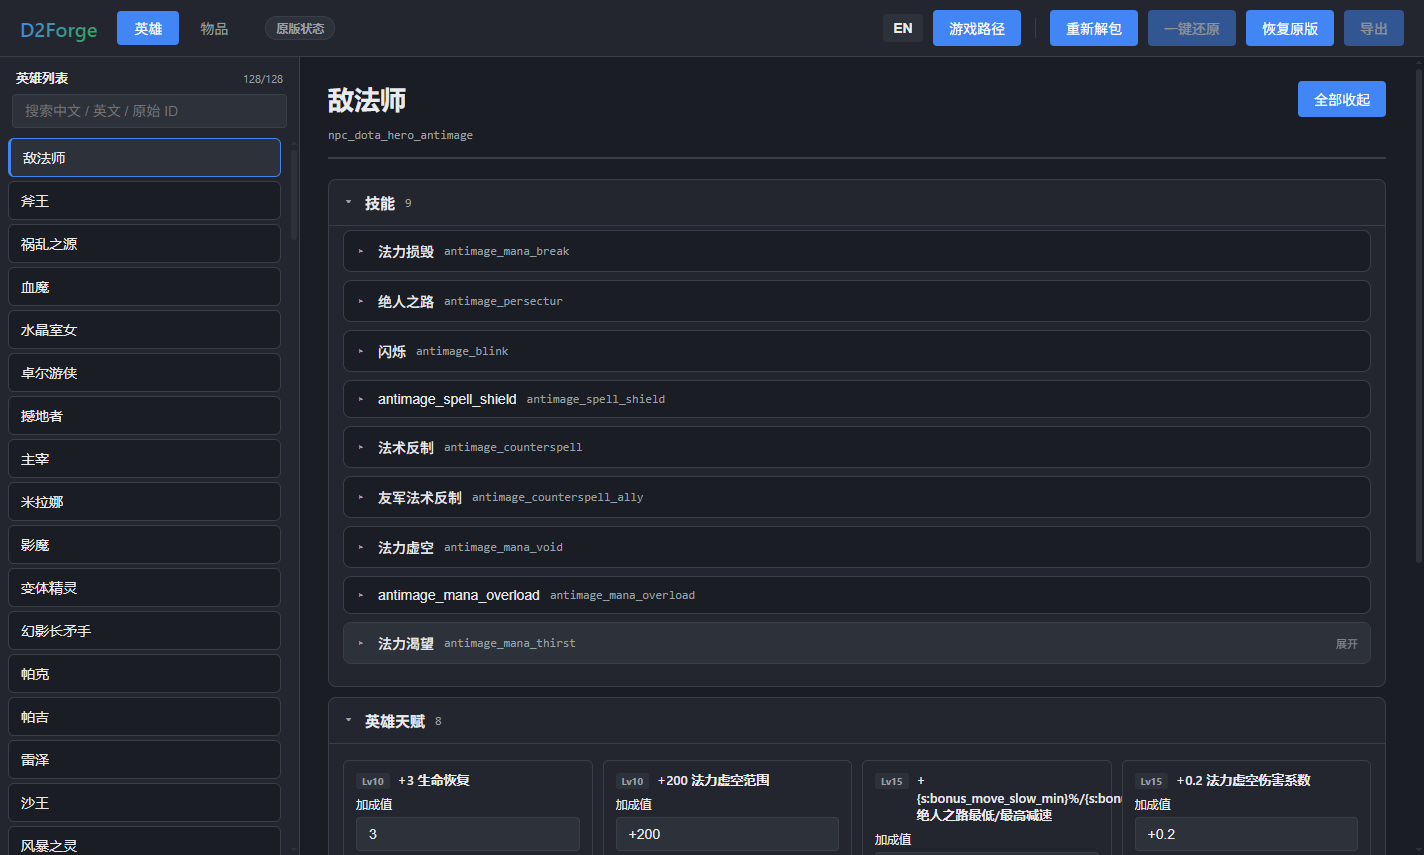
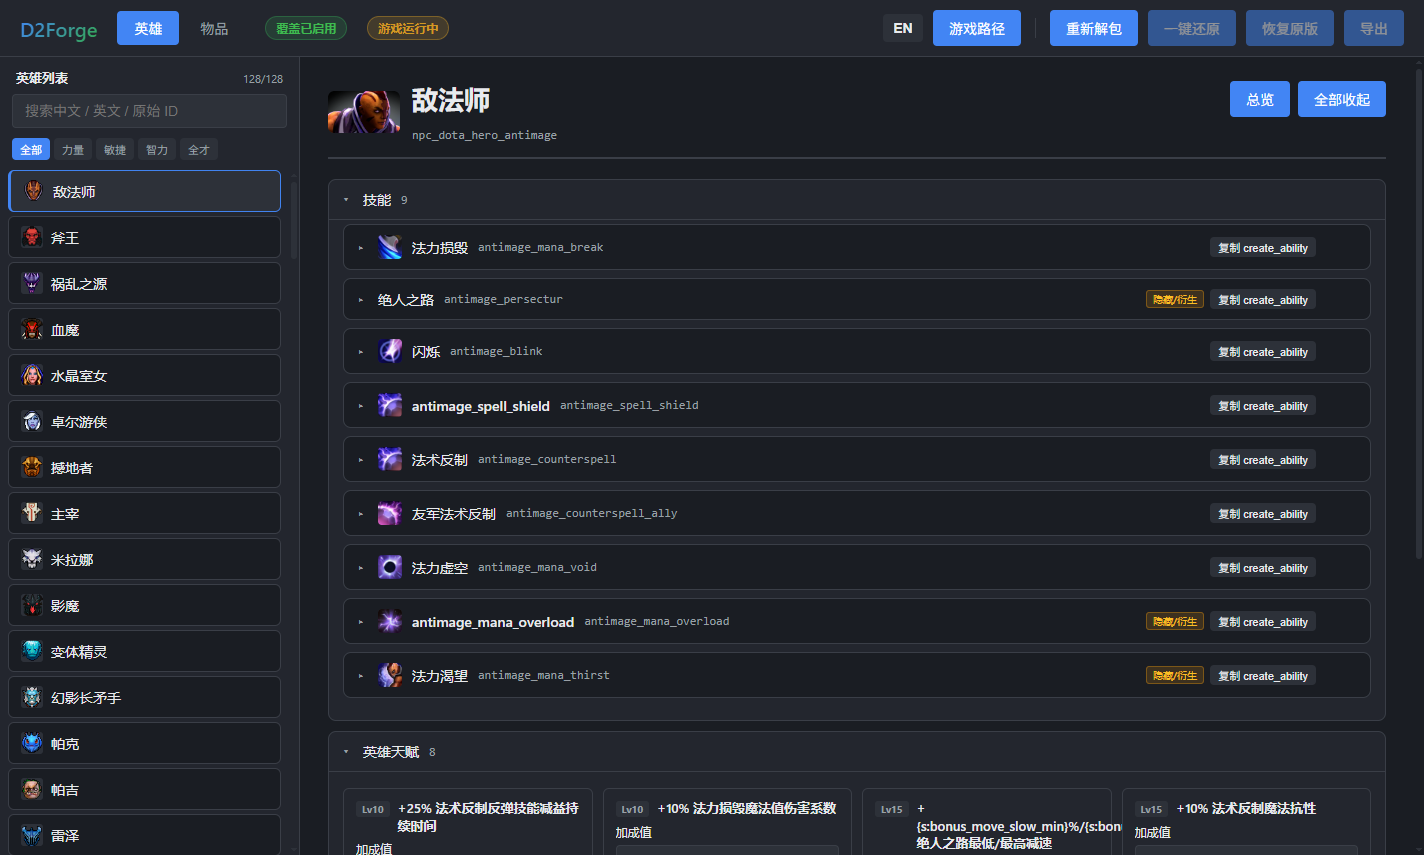
docs: rewrite README and update screenshots for v1.1.0

diff --git a/README.md b/README.md
@@ -2,290 +2,138 @@
 
 **一个现代化的 Dota 2 离线模式数值编辑器。** 直接读写游戏自身的 VPK 数据包，修改英雄属性、技能数值、天赋加成与物品属性，并在游戏更新后保留你的改动。
 
-A modern desktop editor for Dota 2's offline-mode numbers — hero stats, ability values, talent bonuses, and item properties. It reads the game's own VPK archives, writes back only what you changed, and survives game patches. Built with Electron + React.
+A modern desktop editor for Dota 2's offline-mode numbers — hero stats, ability values, talent bonuses, and item properties. It reads the game's own VPK archives, extracts icons locally, writes back only what you changed, and survives game patches. Built with Electron + React.
 
-![英雄列表](docs/screenshots/01-hero-list.png)
+![英雄总览与属性分组](docs/screenshots/01-hero-list.png)
 
-**[下载最新版](https://github.com/SkylineLch/D2Forge/releases/latest)** · [从源码运行](#从源码运行) · [使用流程](#使用流程)
-
----
-
-## 目录
-
-- [为什么做这个](#为什么做这个)
-- [功能](#功能)
-- [界面](#界面)
-- [环境要求](#环境要求)
-- [下载与安装](#下载与安装)
-- [从源码运行](#从源码运行)
-- [使用流程](#使用流程)
-- [工作原理](#工作原理)
-- [游戏更新后怎么办](#游戏更新后怎么办)
-- [项目结构](#项目结构)
-- [开发与验证](#开发与验证)
-- [常见问题](#常见问题)
-- [范围与限制](#范围与限制)
-- [免责声明](#免责声明)
-- [Credits](#credits)
+**[下载最新版 v1.1.0](https://github.com/SkylineLch/D2Forge/releases/latest)** · [核心特性](#核心特性) · [界面预览](#界面预览) · [下载与安装](#下载与安装) · [使用流程](#使用流程) · [工作原理](#工作原理)
 
 ---
 
 ## 为什么做这个
 
-Dota 2 的玩法数据全部打包在 `game/dota/pak01_dir.vpk` 及其分卷里 —— 一张压缩过的、带索引的二进制归档。想改一个技能的伤害数值，传统做法是：解包整个归档（数 GB）、手动翻 `scripts/npc/*.txt` 找那个字段、改完再重新打包、最后想办法让游戏优先加载你的包。
+Dota 2 的玩法数据全部打包在 `game/dota/pak01_dir.vpk` 及其分卷里。想在单机人机（例如搭配 `bots/fretbots`）里调高某个技能伤害或修改装备数值，传统做法是手动解包数 GB 归档、翻找 `scripts/npc/*.txt`、再重新打包并注入加载路径。
 
-D2Forge 把这套流程收进一个图形界面：
+D2Forge 把整套流程收进一个直观的桌面界面：
 
-- 不用解包。应用读取 VPK 索引后按需取文件，只把你**实际改动**的那几个文件重新打包进一个几百 KB 的覆盖包。
-- 不用翻文件。改成「英雄 → 技能 → 数值」的层级浏览，带中英混合搜索。
-- 不用怕更新。游戏打补丁后重新索引一次，还能对上的改动继续生效，对不上的会明确报告而不是静默写坏。
+- **无需手动解包**：按需索引 VPK，仅把你**实际改动**的文件重新打包进几百 KB 的覆盖包 `game/0test/pak01_dir.vpk`。
+- **所见即所得**：内置图标提取缓存、按游戏原生逻辑分组、技能官方描述对照与中英混合搜索。
+- **不惧版本更新**：游戏更新后点一次「重新解包」，未变动的历史修改自动延续，冲突项明确报告。
 
 范围限定：**只改数值。** 不涉及模型、贴图、动画、音效、技能逻辑与 AI 行为。
 
-## 功能
+---
 
-**结构化浏览与图标墙**
-- 英雄按 **力量 / 敏捷 / 智力 / 全才** 四大属性分组；物品读取游戏官方 `shops.txt` 与 `neutral_items.txt`，分为 **基础 / 高级 / 中立（含 T1–T4 级标）/ 附魔 / 其他（已移除与配方）**。
-- 自动从游戏 VPK 增量提取英雄、物品、技能图标并本地缓存；未选中项目时展示分组图标墙，点击即编，同时保留左侧极速搜索列表。
-- 英雄 → 技能 / 天赋 / 属性三条主线，物品 → 属性 / 数值参数。
-- 选中英雄后列表位置保持不变，不会跳回顶部。
+## 核心特性
 
-**技能描述与参数分层**
-- 展开技能或物品时，顶部直接展示游戏官方描述、神杖与魔晶说明，并高亮 `%变量名%` 方便对照。
-- 自动将「游戏内可见核心词条」与「内部隐藏参数（`raw`）」分层，内部参数收进独立折叠区并保留原始英文字段名。
+### 1. 游戏原生逻辑分组 + 图标墙总览
+- **英雄四属性分组**：自动读取 `AttributePrimary`，按 **力量 / 敏捷 / 智力 / 全才** 分区展示。
+- **物品商店与中立池分组**：直接解析游戏自带的 `scripts/shops.txt` 与 `scripts/npc/neutral_items.txt`，拆分为 **基础物品 / 升级物品 / 中立物品（带 `T1`–`T4` 级标）/ 中立附魔 / 其他（已移除与配方）**。
+- **总览图标墙 + 极速搜索双模式**：未选中项目（或点击右上角「总览」）时展示直观的图标网格；左侧保留带图标的搜索列表，支持中文、英文与原始 ID 混合检索（如 `幻影`、`core`、`npc_dota_hero_axe`）。
+- **本地图标自动缓存**：首次打开或「重新解包」时，后台调用内置 `Source2Viewer-CLI` 增量导出英雄、物品与技能图标至 `%APPDATA%/D2Forge/icons/`，游戏更新后仅同步变更贴图。
 
-**一键复制游戏内指令**
-- 物品页一键复制 `-item <id>`，技能栏一键复制 `create_ability <id>`（对 `HIDDEN` / `NOT_LEARNABLE` 衍生技能标注提示）。
-- 顶部工具栏一键复制 `fretbots脚本`（`sv_cheats 1; script_reload_code bots/fretbots`）。
+### 2. 技能 / 物品描述与参数分层
+- **官方描述内嵌**：展开技能或物品时，顶部直接展示游戏官方描述、**神杖**与**魔晶**说明，并将 `%变量名%` 高亮显示，方便与下方字段一一对照。
+- **核心词条 vs 内部参数分层**：自动区分「游戏内可见词条」与「引擎内部/隐藏参数（`raw`）」，内部参数默认收进独立折叠区（有修改时自动展开），并在字段下方保留原始英文 key。
+- **天赋树独立编辑**：按 Lv10 / Lv15 / Lv20 / Lv25 分档列出英雄天赋，自动剔除神杖/魔晶标记。
 
-**混合搜索**
-- 一个搜索框同时匹配中文名、英文名、内部原始名：`幻影`、`anti`、`npc_dota_hero_axe` 都能命中。
+### 3. 游戏内指令一键复制
+- **顶部工具栏 `fretbots脚本`**：一键复制 `sv_cheats 1; script_reload_code bots/fretbots`，开局即用。
+- **物品详情页**：一键复制 `-item <id>`。
+- **英雄技能栏**：一键复制 `create_ability <id>`，并对标记为 `HIDDEN` / `NOT_LEARNABLE` 的衍生子技能标注 `隐藏/衍生` 风险提示。
 
-**天赋树编辑**
-- 按 Lv10 / Lv15 / Lv20 / Lv25 分档列出该英雄的 8–10 个天赋，直接改加成数值。
-- 自动剔除神杖 / 魔晶标记（`special_bonus_scepter` / `special_bonus_shard`），它们不是天赋。
+### 4. 完整中英双语与高覆盖汉化
+- 同时索引 VPK 内的 `abilities_schinese.txt`、`items_schinese.txt` 与 `dota_schinese.txt`，支持大小写无关查找及新版 `:n` 词条后缀。
+- 现役商店物品、中立物品与英雄中文覆盖率达 **100%**；所有改动字段高亮并常驻显示原始默认值。
 
-**改动可见**
-- 每个被改动的字段都高亮，并在旁边常驻显示原始默认值。
-- 工具栏的「导出」按钮常驻显示待写入的改动条数。
-
-**中英双语**
-- 界面可切换；补全了 `items_schinese.txt`、大小写无关索引与新版 `:n` 词条后缀，现役物品与英雄中文覆盖率达 100%。
-
-**三级可逆**
+### 5. 三级可逆与安全防护
 | 操作 | 作用范围 | 典型场景 |
 |---|---|---|
-| 单个字段重置换 | 一个数值 | 改错了某个值 |
+| **单个还原** | 还原单个字段 | 改错了某个数值 |
 | **一键还原** | 清空所有待写入改动 | 本轮试完，重新开始 |
-| **恢复原版** | 卸载覆盖包 + 逐字节复原 `gameinfo.gi` | 切回联网原版打天梯 |
+| **恢复原版** | 卸载 `0test` 覆盖包 + 逐字节复原 `gameinfo.gi` | 切回纯净联网环境打天梯 |
 
-后两个就是你在「改过的离线版」和「纯净联网版」之间来回切换的开关。
+---
 
-**游戏更新不丢改动**
-- 重新索引 VPK 后，自动比对你的历史改动：底层数值没变的继续生效，变了的列出来并附上游戏现值。
+## 界面预览
 
-## 界面
-
-选英雄后，技能与天赋排在属性之前，每个板块可单独展开：
+选定英雄后展示图标、技能列表（含技能图标与 `create_ability` 一键复制）、天赋树与属性分组：
 
 ![英雄面板](docs/screenshots/02-hero-panel.png)
 
-展开技能后逐个数值编辑，改过的字段高亮并显示原值：
+展开技能后显示字段、原始英文 key 与派生标签：
 
 ![技能数值](docs/screenshots/03-ability-values.png)
 
-天赋按等级分档，直接改加成：
-
-![天赋](docs/screenshots/04-talents.png)
-
-物品面板同构：
+物品页展示官方描述（高亮 `%变量%`）、`-item` 一键复制与分层数值：
 
 ![物品](docs/screenshots/05-items.png)
 
-## 环境要求
-
-- **Windows 10 / 11**（当前只支持 Windows —— 覆盖机制依赖 `gameinfo.gi` 的注入路径与 CRC32 补偿，逻辑本身跨平台，但没有在 macOS / Linux 上验证过）
-- **已安装 Dota 2**（Steam 版）
-- **Node.js 18+** —— 仅从源码运行时需要；用打包好的 exe 不需要
+---
 
 ## 下载与安装
 
-**[➜ 下载最新版](https://github.com/SkylineLch/D2Forge/releases/latest)**
+**[➜ 前往 Releases 下载最新版 v1.1.0](https://github.com/SkylineLch/D2Forge/releases/latest)**
 
 | 文件 | 说明 |
 |---|---|
-| `D2Forge Setup 1.1.0.exe` | **安装版**（NSIS）—— 可选安装目录，有开始菜单项。长期使用选这个。 |
+| `D2Forge.Setup.1.1.0.exe` | **安装版**（NSIS）—— 可选安装目录，带开始菜单项，适合长期使用。 |
 | `D2Forge-1.1.0-win.zip` | **免安装压缩包** —— 解压即用（内置图标提取工具 `Source2Viewer-CLI`）。 |
 
-两个都是独立包，不需要另装 Node.js。GitHub Release 页面中的文件名空格会被自动替换为点号，下载后可以随意改名，不影响使用。
+**环境要求**：Windows 10 / 11，已安装 Steam 版 Dota 2。独立打包，无需额外安装 Node.js。
 
-**自己打包**（也不想信任别人编译的二进制时）：
-
-```bash
-npm install
-npm run dist
-```
-
-产物在 `release/`：`win-unpacked/`、`D2Forge-1.1.0-win.zip` 与 `D2Forge Setup 1.1.0.exe`。
-
-## 从源码运行
+### 从源码运行 / 自行打包
 
 ```bash
 npm install
 npm run app        # 开发模式：Vite 热更新 + Electron
-npm start          # 跑已构建的 ./dist（需先 npm run build）
-npm run preview    # 重新构建后启动
+npm run preview    # 构建前端后启动
+npm run dist       # 打包为 release/ 下的安装包与压缩包
 ```
 
-**首次启动要指路。** 点右上角「游戏路径」，选到：
+> 注：如果源码运行时提示找不到 `Source2Viewer-CLI.exe`，将仓库 `tools/vrf-cli.zip` 解压至 `tools/vrf-cli/` 即可启用图标提取。
 
-```
-Steam\steamapps\common\dota 2 beta\game
-```
-
-选到上一级 `...\dota 2 beta` 或下一级 `...\dota 2 beta\game\dota` 都能自动纠正。选错时会有明确提示而不是白屏。
+---
 
 ## 使用流程
 
-一次完整的「改数值 → 进游戏验证」：
+1. **选择游戏路径** —— 首次启动点击右上角「游戏路径」，选择 `Steam\steamapps\common\dota 2 beta\game`（选到上一级或 `game\dota` 会自动纠正）。
+2. **浏览与修改数值** —— 从图标墙或左侧搜索栏选中英雄/物品，修改技能、天赋或物品参数。
+3. **退出游戏后导出** —— 确保 Dota 2 完全关闭（右上角无「游戏运行中」提示），点击「导出」。应用会生成 `game/0test/pak01_dir.vpk` 并在 `gameinfo.gi` 注入覆盖路径。
+4. **进游戏游玩** —— 开启**本地房间 / 单机对机器人**即可生效（可点击顶部 `fretbots脚本` 复制启动指令）。
+5. **切回原版** —— 游玩结束后关闭游戏，点击「恢复原版」，`gameinfo.gi` 将逐字节还原，可正常进行在线匹配。
 
-1. **选路径** —— 首次启动会记住，之后自动加载。
-2. **改数值** —— 英雄标签页选英雄 → 展开技能或天赋 → 点数值编辑。改过的字段立刻高亮。
-3. **退出游戏** —— 导出前必须完全关闭 Dota 2。游戏运行时点「导出」会直接报错并提示你先关游戏（工具栏也会出现「游戏运行中」的橙色标记）。
-4. **导出** —— 点「导出」，应用把改动写进 `game/0test/pak01_dir.vpk`，同时在 `gameinfo.gi` 插入覆盖路径。左上角状态从 `原版状态` 变成 `覆盖已启用`。
-5. **进游戏** —— 开**本地房间 / 单机对机器人**。改动只在这类对局生效。
-6. **切回联网** —— 打完点「恢复原版」（同样要先退游戏）。状态回到 `原版状态`，`gameinfo.gi` 逐字节复原，可以正常打天梯。
+---
 
 ## 工作原理
 
-### 覆盖机制
+- **覆盖机制**：向 `game/dota/gameinfo.gi` 的 `SearchPaths` 头部写入 `Game 0test`，引擎优先加载 `game/0test/pak01_dir.vpk` 中的修改文件，未改动文件继续回落到原版包。
+- **CRC32 反向补偿**：由于 Dota 2 会校验 `gameinfo.gi` 的 CRC32，写入覆盖路径后会在文件末尾追加 4 字节补偿注释，反向求解使文件 CRC32 与原版完全一致；还原时优先从 `.orig` 备份逐字节恢复。
+- **就地字节替换**：`kv-parser.cjs` 定位目标字段偏移后就地替换 `value`，保留原文件注释与缩进格式。
 
-Dota 2 的 `gameinfo.gi` 里有一个 `SearchPaths` 块，按顺序列出引擎要搜索的数据目录。向其中插入一条 `Game 0test`，引擎就会**优先**读这个目录下的 `pak01_dir.vpk`，命中你改过的文件，其余文件继续回落到原版包。
-
-路径基准容易搞错：`SearchPaths` 里的路径相对**游戏根目录** `game/` 解析（同块的 `Game dota` 就指向 `game/dota`），所以 `Game 0test` 对应 `game/0test/`，不是 `game/dota/0test/`。1.0.1 修的就是这个 —— 之前覆盖包写深了一层，引擎找不到就静默回落原版，表现是「导出成功但游戏里没变化」。如果你之前用过旧版本，首次启动会自动清理掉放错位置的那份残留。
-
-所以覆盖包只需要包含你改过的那几个文件 —— 通常 1–5 个，几十 KB 到几百 KB。
-
-### CRC32 校验
-
-引擎会校验 `gameinfo.gi` 的 CRC32。直接插入一行会改变文件长度和哈希，导致游戏拒绝加载配置。
-
-处理方式是**反向求解**：插入 `Game 0test` 那一行后，在文件末尾追加一段注释 `//` + 4 字节填充，然后计算这 4 个字节应该取什么值，才能让整个文件的 CRC32 等于修改前算出的目标值。CRC32 是可逆的 —— 已知除最后 4 字节外所有字节的余数，能直接解出这 4 字节。
-
-写入后会**重新计算一遍校验**，不匹配就抛错而不是留下一个坏掉的文件。原始文件在动手前备份为 `gameinfo.gi.orig`，`恢复原版` 时逐字节还原。
-
-备份万一丢了（Steam 验证文件完整性、手动清理目录），`恢复原版` 还有兜底：直接从当前文件里剥掉 `Game 0test` 行和那段注释填充，结果与从未修改过的文件一致。
-
-### 只重写改动的文件
-
-`kv-parser.cjs` 解析 Valve KeyValues（KV1）文本，但**不做完整重序列化** —— 那样会丢注释、丢缩进、把整个文件格式化一遍。改为定位目标字段在原文中的字节偏移，就地替换 `value` 值。一个有两处改动的英雄文件，其余内容保持原样。
-
-### 改动历史
-
-每次改动记录为 `{英雄/物品 ID, 字段路径, 原值, 新值}`，存在应用数据目录里。重新索引 VPK 时拿它和游戏现值比对：一致 → 继续生效；不一致 → 报警告并给出游戏现值，让你决定是否保留。
-
-## 游戏更新后怎么办
-
-Dota 2 打补丁后，`pak01_dir.vpk` 会整体重排，旧的覆盖包里的文件可能对不上新版本。
-
-1. 点「重新解包」——应用重新读 VPK 索引，重建英雄 / 物品 / 技能列表。
-2. 应用自动比对历史改动。弹窗会给出结果，形如：
-
-   ```
-   388,116 个条目，保留 2 项修改
-   ```
-
-   保留下来的直接可用；被跳过的会在「查看详情」里逐条列出：哪个英雄的哪个字段、为什么跳过、游戏现值是多少。
-3. 需要的话手动修正被跳过的改动，重新「导出」。
+---
 
 ## 项目结构
 
-```
+```text
 electron/
-  main.cjs          Electron 主进程、IPC 处理、d2icon 协议与路径纠正
-  vpk.cjs           VPK 读写（v1 + v2 头、分卷归档）
-  kv-parser.cjs     Valve KeyValues（KV1）词法与序列化
+  main.cjs          Electron 主进程、IPC、d2icon:// 协议与路径纠正
+  vpk.cjs           VPK v1/v2 读写与分卷归档构建
+  kv-parser.cjs     Valve KeyValues（KV1）解析与就地替换
   data-store.cjs    索引 VPK，提供英雄属性分组 / 商店与中立物品分组 / 天赋
   icons.cjs         调用 Source2Viewer-CLI 增量提取与解析本地图标缓存
   exporter.cjs      应用改动、生成覆盖包、比对历史改动
   gameinfo.cjs      gameinfo.gi 注入与 CRC32 补偿
-  localization.cjs  大小写无关查询游戏本地化 token（含 items / abilities / dota）
-  labels.cjs        字段名 → 中文标签的推断与清洗
+  localization.cjs  大小写无关查询游戏本地化 token（items / abilities / dota）
+  labels.cjs        字段名 → 中文标签推理与词表清洗
   change-store.cjs  跨会话持久化改动历史
-src/                React 界面
-  App.jsx           主界面与状态管理
-  App.css           样式
-tools/              独立探针脚本，用于验证各子系统（不属于应用运行时）
-scripts/launch.cjs  启动器，启动前剥离 ELECTRON_RUN_AS_NODE
-docs/screenshots/   README 用截图
+src/                React 前端（总览图标墙、搜索侧栏、参数分层编辑器）
+tools/              独立验证探针脚本（probe-*.cjs / probe-*.mjs）
+docs/screenshots/   README 预览截图
 ```
 
-## 开发与验证
-
-项目全程用探针脚本验证，不靠肉眼看。`tools/probe-*.cjs` 是端到端验证夹具：读你本机的游戏文件、做一次往返编辑、断言产出的 VPK 结构完整。
-
-```bash
-node tools/probe-fields.mjs        # 字段发现
-node tools/probe-export.mjs        # 导出 → 覆盖包
-node tools/probe-export-path.cjs   # 覆盖包落点：game/0test 而非 game/dota/0test
-node tools/probe-talents.cjs       # 天赋解析
-node tools/probe-coverage.cjs      # 翻译覆盖率，产出 tools/untranslated.json
-node tools/probe-crc.mjs           # gameinfo.gi 的 CRC32 补偿
-node tools/probe-game-process.cjs  # dota2.exe 进程检测（正反两向）
-node tools/probe-single-instance.cjs # 单实例锁
-```
-
-**UI 自检。** 应用内置一个脚本化的冒烟测试，会走一遍真实使用顺序（编辑 → 导出 → 重新解包 → 一键还原 → 恢复原版），截 9 张图，并断言 20 项条件：
-
-```bash
-node scripts/launch.cjs --ui-check
-```
-
-产出在 `ui-check/`（打包版写在 `%APPDATA%/D2Forge/ui-check/`）。退出码反映结果 —— 源码版与打包版均为 **20/20 通过**。
-
-## 常见问题
-
-**启动报 `bad option: --ui-check` 或直接闪退**
-本机环境变量里有 `ELECTRON_RUN_AS_NODE=1`，这会让 Electron 以纯 Node 模式启动、不加载界面。`scripts/launch.cjs` 会剥掉它；直接运行 `electron` 时手动 `set ELECTRON_RUN_AS_NODE=` 再启动即可。
-
-**`打开游戏失败：ENOENT ... pak01_dir.vpk`**
-路径选错了。要选到 `game` 目录（`...\dota 2 beta\game`），不是 `dota 2 beta` 也不是 `dota`。选前两者应用会尝试自动纠正；如果还是报错，说明 Steam 库不在默认位置，手动找到真实路径。
-
-**导出了但游戏里没变化**
-先看工具栏状态：`覆盖已启用` 才说明写入成功。如果点导出就报错，多半是游戏还在运行 —— 逐个退出 Dota 2（含最小化到后台、以及 Steam 里的残留进程），看到「游戏运行中」标记消失再导出。排除这两点后仍无变化，请确认是**本地房间 / 单机对机器人**；匹配对局不加载客户端覆盖。
-
-**又开了一个 D2Forge，提示「已有实例运行」**
-这是设计如此。同一时间只允许一个实例，避免两边同时改写同一份改动集导致互相覆盖。第二次启动会把已经开着的那个窗口提到前台并闪烁提示，然后自己退出。
-
-**「恢复原版」之后状态还显示 `覆盖已启用`**
-旧版本有这个 bug（备份路径与还原路径不一致，打包后尤其明显），已在 1.0.1 修复。如果你用的是旧构建，手动检查 `game/0test/` 目录与 `game/dota/gameinfo.gi` 里是否残留 `Game 0test` 行，删掉即可。
-
-**改动能覆盖到多少个英雄 / 物品？**
-当前索引到 128 个英雄。技能数值来自英雄文件，天赋数值来自技能文件里的 `AbilityValues` 修饰键，两者都已覆盖。
-
-**中英文混排出现 `额外attack速度` 这类词**
-字段名由词素表推断，少数复合词没覆盖到。这类只影响标签可读性，不影响数值读写。想要更好的翻译可以往 `electron/labels.cjs` 的 `KEY_PART_ZH` 里补词。
-
-## 范围与限制
-
-- **只支持 Windows。**
-- **只改数值。** 技能逻辑、AI、模型、音效都不在范围内。
-- **只对本地对局生效。** 联机匹配使用 Valve 服务端数据，客户端覆盖不参与。
-- **字段中文标签是推断结果**，不是官方译名。数值读写完全不依赖它，标签只是显示层。
-- **游戏大版本更新后可能需要重新索引。** 应用会提示，但极端改动（官方重命名了技能内部 ID）会让个别历史改动无法匹配。
+---
 
 ## 免责声明
 
-本项目仅供**本地离线 / 单机对机器人**的数值试验与学习使用。
-
-- 不要在联机对局中使用 —— 覆盖对匹配无效，但修改游戏文件本身可能违反 Valve 的服务条款。
-- 覆盖机制会写入你的游戏安装目录。应用在动手前会备份原始文件，但**仍建议自行备份 `game/dota/gameinfo.gi`**。
-- 使用本软件造成的任何后果（账号风险、文件损坏、游戏异常）由使用者自行承担。
-
-与 Valve 无关联，未获其认可或背书。Dota 2 是 Valve Corporation 的商标。
-
-## Credits
-
-覆盖机制（`0test` 搜索路径）的思路来自 [Dota2Editor](https://github.com/ado-cs/Dota2Editor)。本项目是独立实现：结构化界面、VPK v2 支持、改动跨更新保留、就地文本编辑与 CRC32 补偿。
-
-`LICENSE`: MIT。
+本工具仅用于 Dota 2 **本地单机 / 离线人机** 趣味数值修改；在线匹配模式不会加载客户端覆盖包。切勿在联网对局前忘记「恢复原版」。
